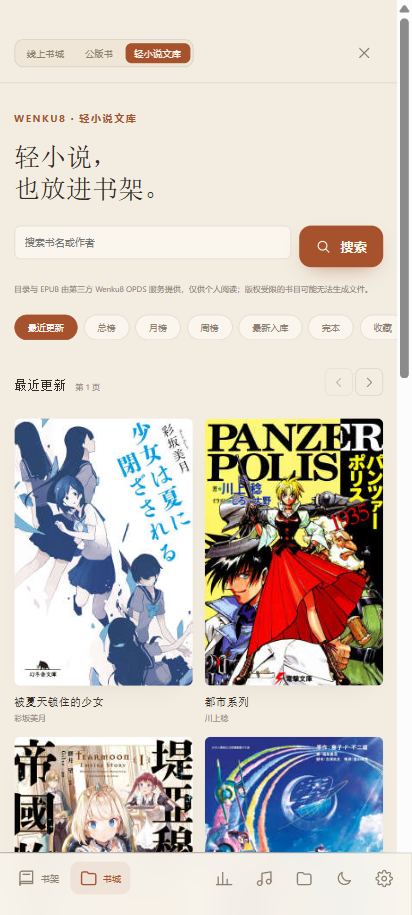
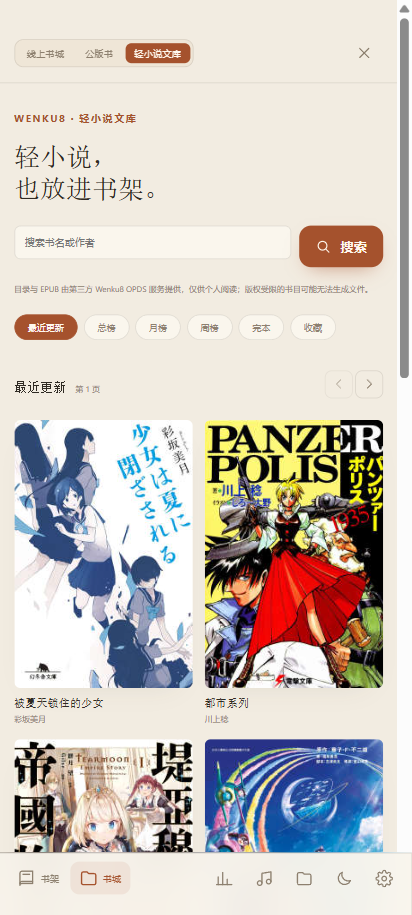
Polish the mobile Wenku8 layout for 0.33.12

diff --git a/site/index.html b/site/index.html
@@ -41,20 +41,20 @@
             <a
               class="button"
               id="androidGithubButton"
-              href="https://github.com/Langlijun666/moyue-android/releases/download/android-v0.33.11/Moyue.Android_0.33.11_arm64.apk"
+              href="https://github.com/Langlijun666/moyue-android/releases/download/android-v0.33.12/Moyue.Android_0.33.12_arm64.apk"
               target="_blank"
               rel="noreferrer"
             >
               <span class="button__icon">↓</span>
               <span>
                 <strong>下载 Android APK</strong>
-                <small id="androidMeta">GitHub · v0.33.11 · arm64</small>
+                <small id="androidMeta">GitHub · v0.33.12 · arm64</small>
               </span>
             </a>
             <a
               class="button button--ghost"
               id="androidOssButton"
-              href="https://moyue-release-files.oss-cn-hangzhou.aliyuncs.com/updates/android/Moyue.Android_0.33.11_arm64.apk.zip"
+              href="https://moyue-release-files.oss-cn-hangzhou.aliyuncs.com/updates/android/Moyue.Android_0.33.12_arm64.apk.zip"
               target="_blank"
               rel="noreferrer"
             >
@@ -75,7 +75,7 @@
 
         <div class="hero__phones" aria-hidden="true">
           <img class="phone phone--back" src="assets/shelf.png" alt="" />
-          <img class="phone phone--front" src="assets/reader.png?v=0.33.11" alt="" />
+          <img class="phone phone--front" src="assets/reader.png?v=0.33.12" alt="" />
         </div>
       </section>
 
@@ -117,7 +117,7 @@
             数据来自第三方 Wenku8 OPDS 服务，仅供个人阅读。
           </p>
         </div>
-        <img class="shot" src="assets/store.png?v=0.33.11" alt="墨阅 Android 轻小说文库" />
+        <img class="shot" src="assets/store.png?v=0.33.12" alt="墨阅 Android 轻小说文库" />
       </section>
 
       <section class="section section--split">

diff --git a/src/lib/wenku8Store.ts b/src/lib/wenku8Store.ts
@@ -25,7 +25,6 @@ export const WENKU8_FEEDS = [
   { id: "allVisit", label: "总榜", path: "allVisit.xml" },
   { id: "monthVisit", label: "月榜", path: "monthVisit.xml" },
   { id: "weekVisit", label: "周榜", path: "weekVisit.xml" },
-  { id: "postDate", label: "最新入库", path: "postDate.xml" },
   { id: "fullFlag", label: "完本", path: "fullFlag.xml" },
   { id: "goodNum", label: "收藏", path: "goodNum.xml" },
 ] as const;

diff --git a/site/app.js b/site/app.js
@@ -1,6 +1,6 @@
 const OSS_BASE = "https://moyue-release-files.oss-cn-hangzhou.aliyuncs.com";
 const REPO_URL = "https://github.com/Langlijun666/moyue-android";
-const FALLBACK_VERSION = "0.33.11";
+const FALLBACK_VERSION = "0.33.12";
 
 function applyRelease(version, apkUrl, ossZipUrl, size) {
   const apk =

diff --git a/README.md b/README.md
@@ -13,9 +13,9 @@
 ## 下载
 
 - [GitHub Releases](https://github.com/Langlijun666/moyue-android/releases/latest)
-- OSS 镜像（ZIP）：`https://moyue-release-files.oss-cn-hangzhou.aliyuncs.com/updates/android/Moyue.Android_0.33.11_arm64.apk.zip`
+- OSS 镜像（ZIP）：`https://moyue-release-files.oss-cn-hangzhou.aliyuncs.com/updates/android/Moyue.Android_0.33.12_arm64.apk.zip`
 
-当前 **v0.33.11 · arm64 · Android 7.0+**，debug 签名测试包，需要允许「安装未知应用」。调试包适合试用，不适合直接上架。
+当前 **v0.33.12 · arm64 · Android 7.0+**，debug 签名测试包，需要允许「安装未知应用」。调试包适合试用，不适合直接上架。
 
 > 阿里云 OSS 默认域名不允许直接公开分发 `.apk`，所以 OSS 渠道提供的是 APK 压缩包；GitHub 渠道可以直接下载 APK。
 

diff --git a/CHANGELOG.md b/CHANGELOG.md
@@ -1,5 +1,10 @@
 # Changelog
 
+## 0.33.12
+
+- 轻小说文库榜单精简为一行 6 个入口，手机上不再出现单独换行的「收藏」
+- 保持轻小说搜索、下载、512 MB 导入上限和更新日志
+
 ## 0.33.11
 
 - 手机书城新增「轻小说文库」：榜单、搜索、封面、分页和 EPUB 下载
